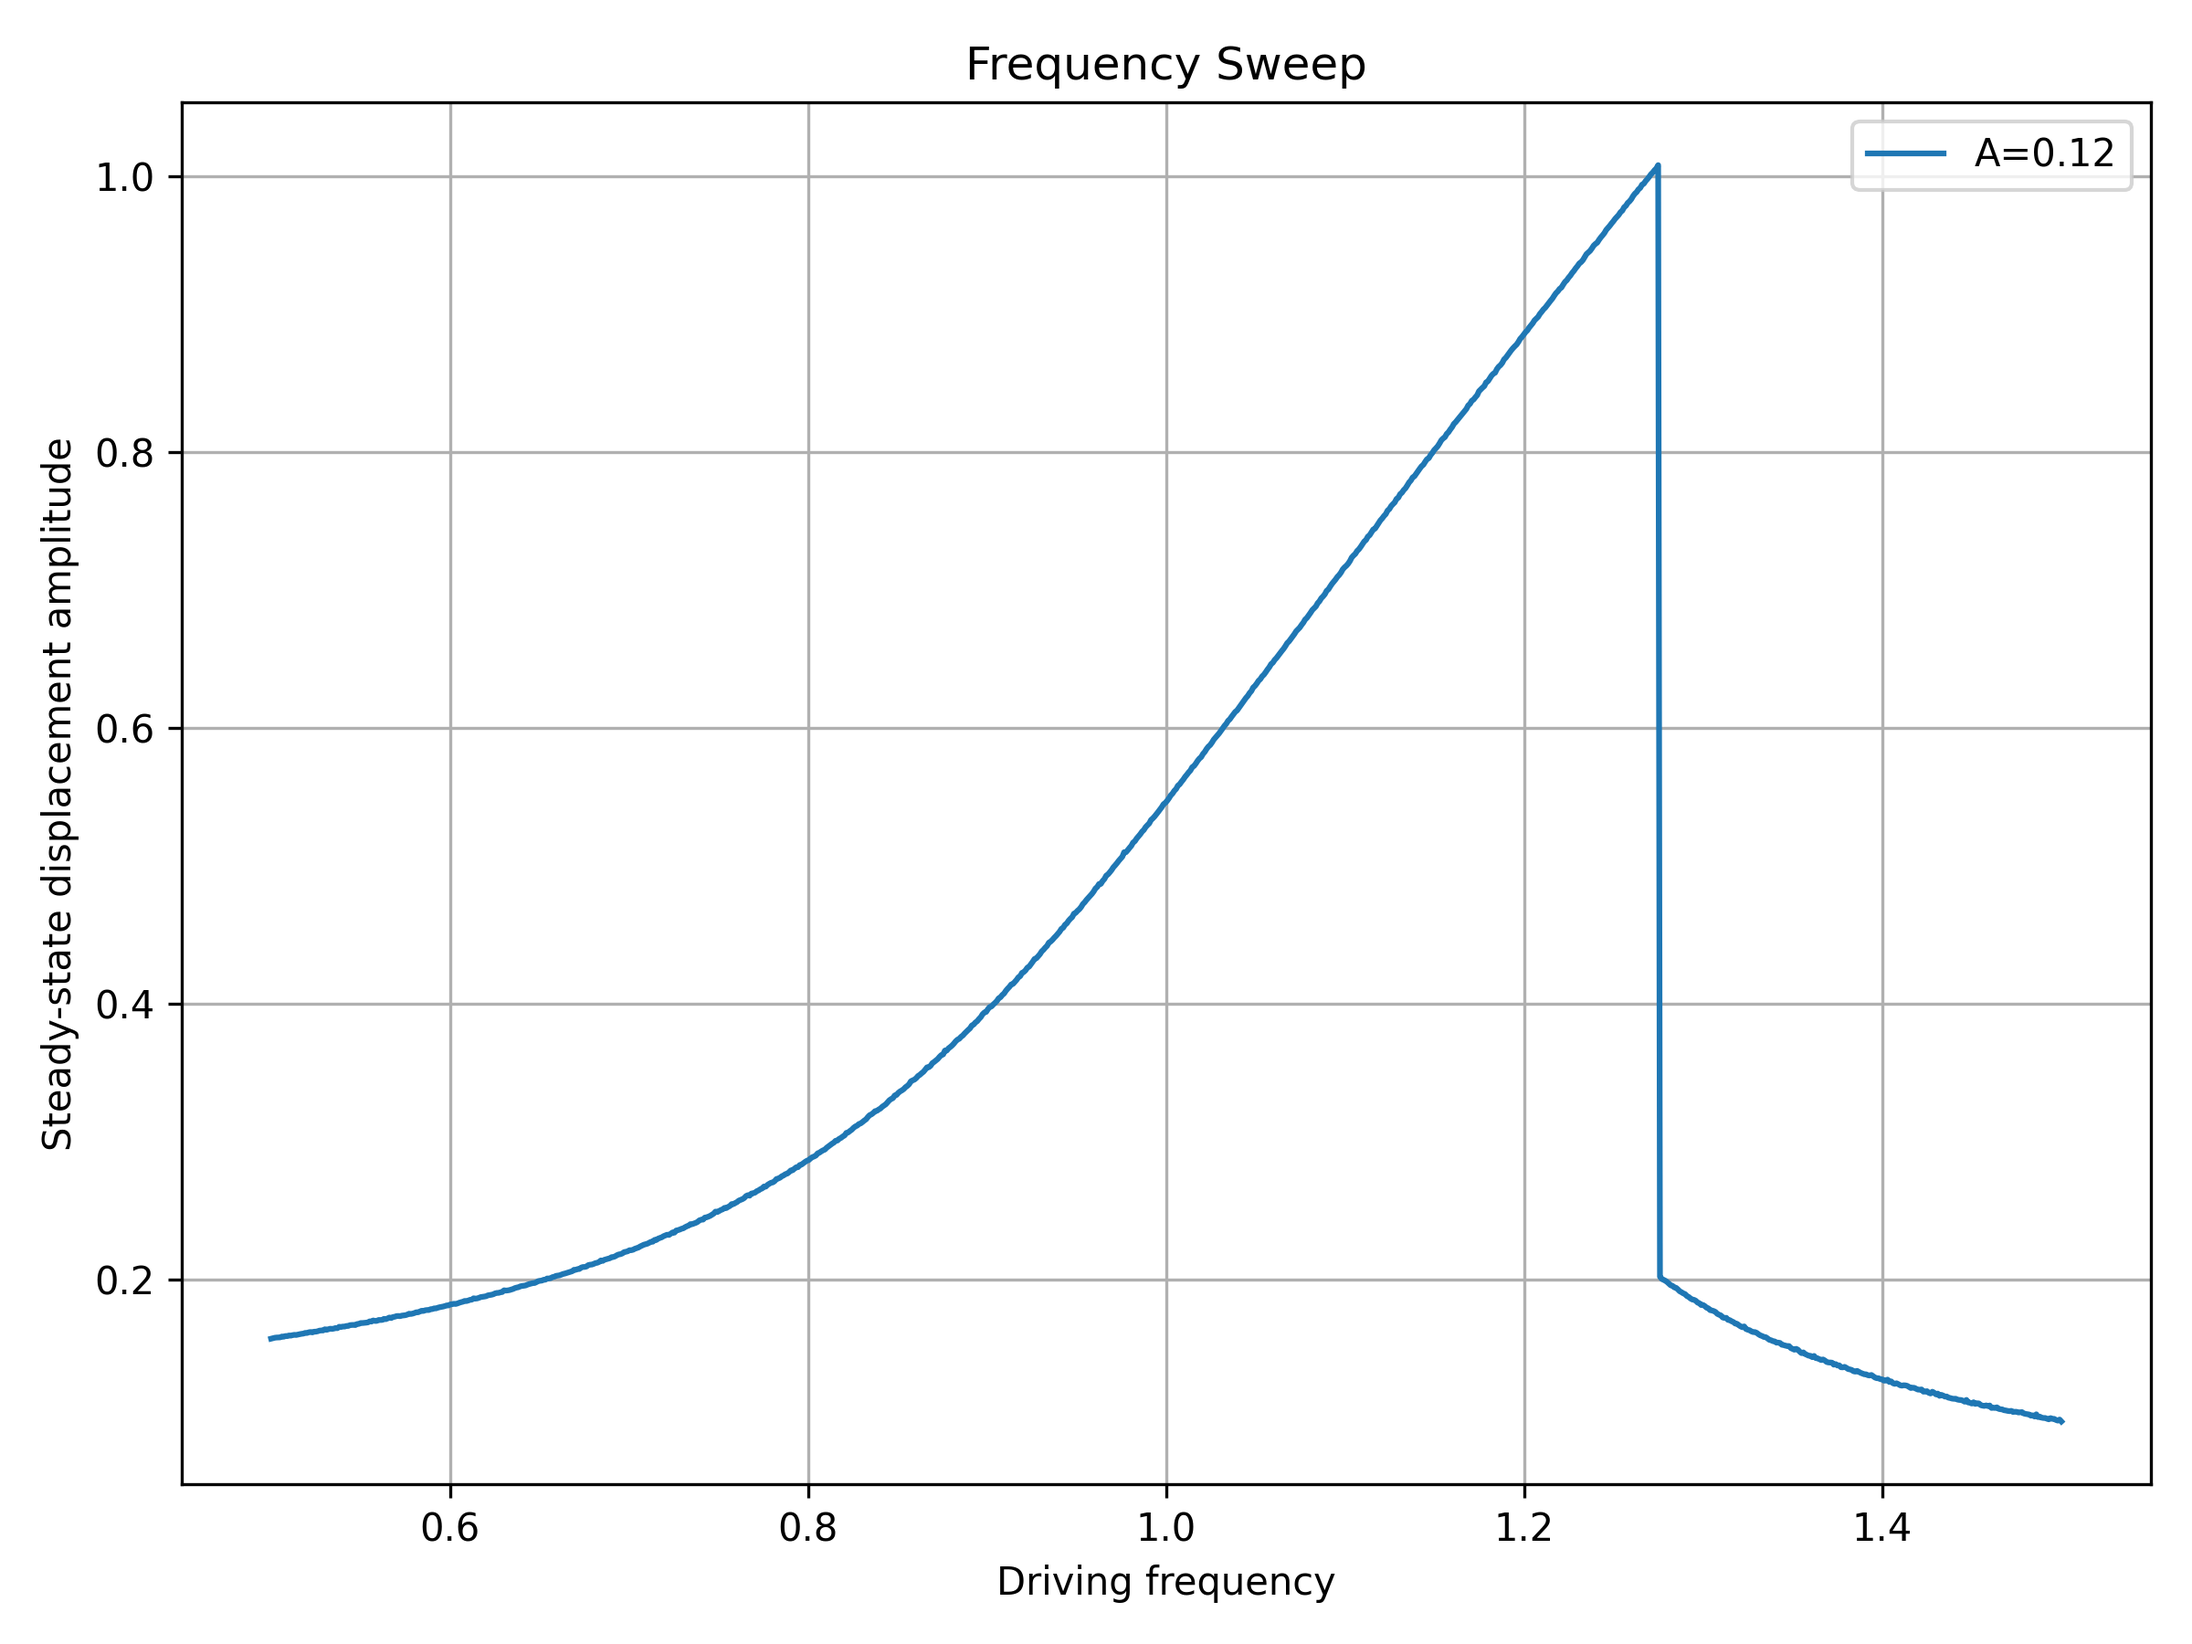
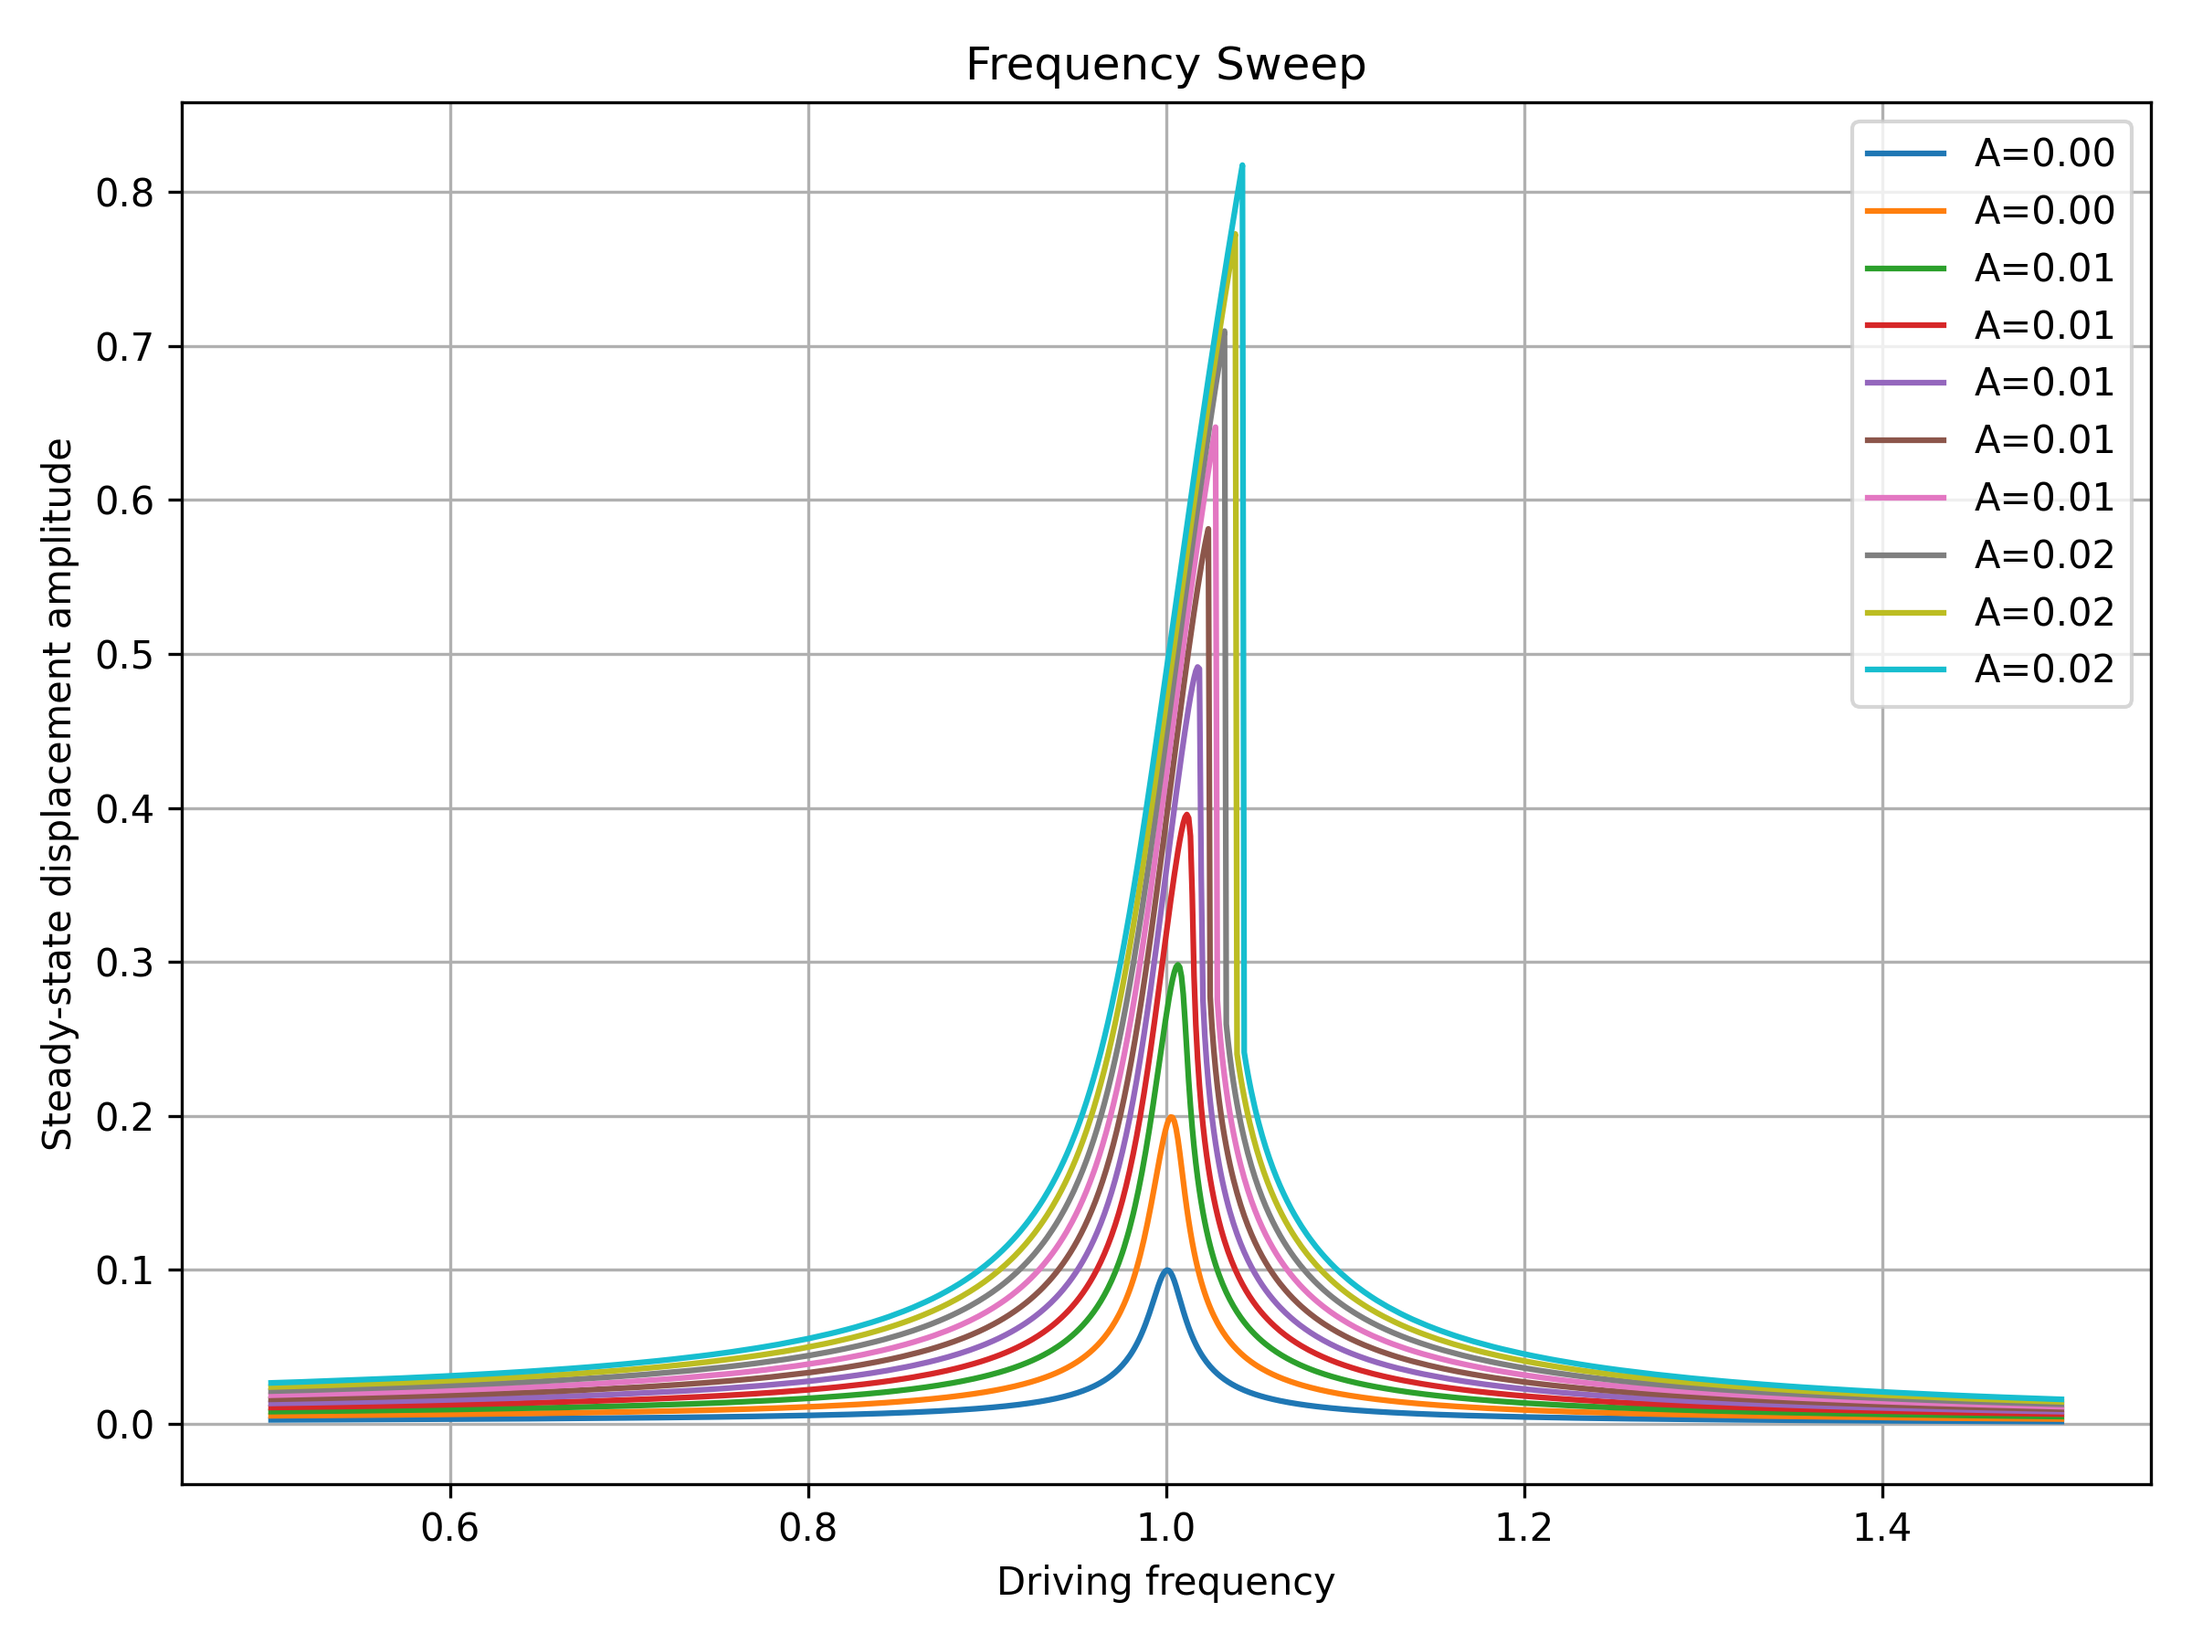
Update frequency sweep test parameters for improved accuracy and consistency

diff --git a/tests/frequency_sweep/test_frequency_sweep.py b/tests/frequency_sweep/test_frequency_sweep.py
@@ -2,15 +2,12 @@ from jax import numpy as jnp
 import time
 import oscidyn
 
-Q, omega_0, gamma = 200.0, 1.0, 1.0
+Q, omega_0, gamma = 50.0, 1.0, 0.2
 MODEL = oscidyn.BaseDuffingOscillator.from_physical_params(Q=jnp.array([Q]), gamma=jnp.array([gamma]), omega_0=jnp.array([omega_0]))
-MODEL = oscidyn.BaseDuffingOscillator(g1=jnp.array([omega_0/(Q)]), g2=jnp.array([omega_0]), g3=jnp.array([gamma]))
 SWEEP_DIRECTION = oscidyn.SweepDirection.FORWARD
 DRIVING_FREQUENCY = jnp.linspace(0.5, 1.5, 1000)
-DRIVING_AMPLITUDE = jnp.linspace(1*1/Q, 10*1/Q, 10)
-DRIVING_AMPLITUDE = jnp.array([0.12])
-#DRIVING_AMPLITUDE = jnp.linspace(1.0e-2, 1.0e-1, 10)
-SOLVER = oscidyn.FixedTimeSteadyStateSolver(max_steps=4_096*200, rtol=1e-4, atol=1e-7, progress_bar=True)
+DRIVING_AMPLITUDE = jnp.linspace(0.1*omega_0**2/Q, 1.0*omega_0**2/Q, 10)
+SOLVER = oscidyn.FixedTimeSteadyStateSolver(max_steps=4_096*200, rtol=1e-4, atol=1e-9, progress_bar=True)
 PRECISION = oscidyn.Precision.SINGLE
 
 start_time = time.time()
